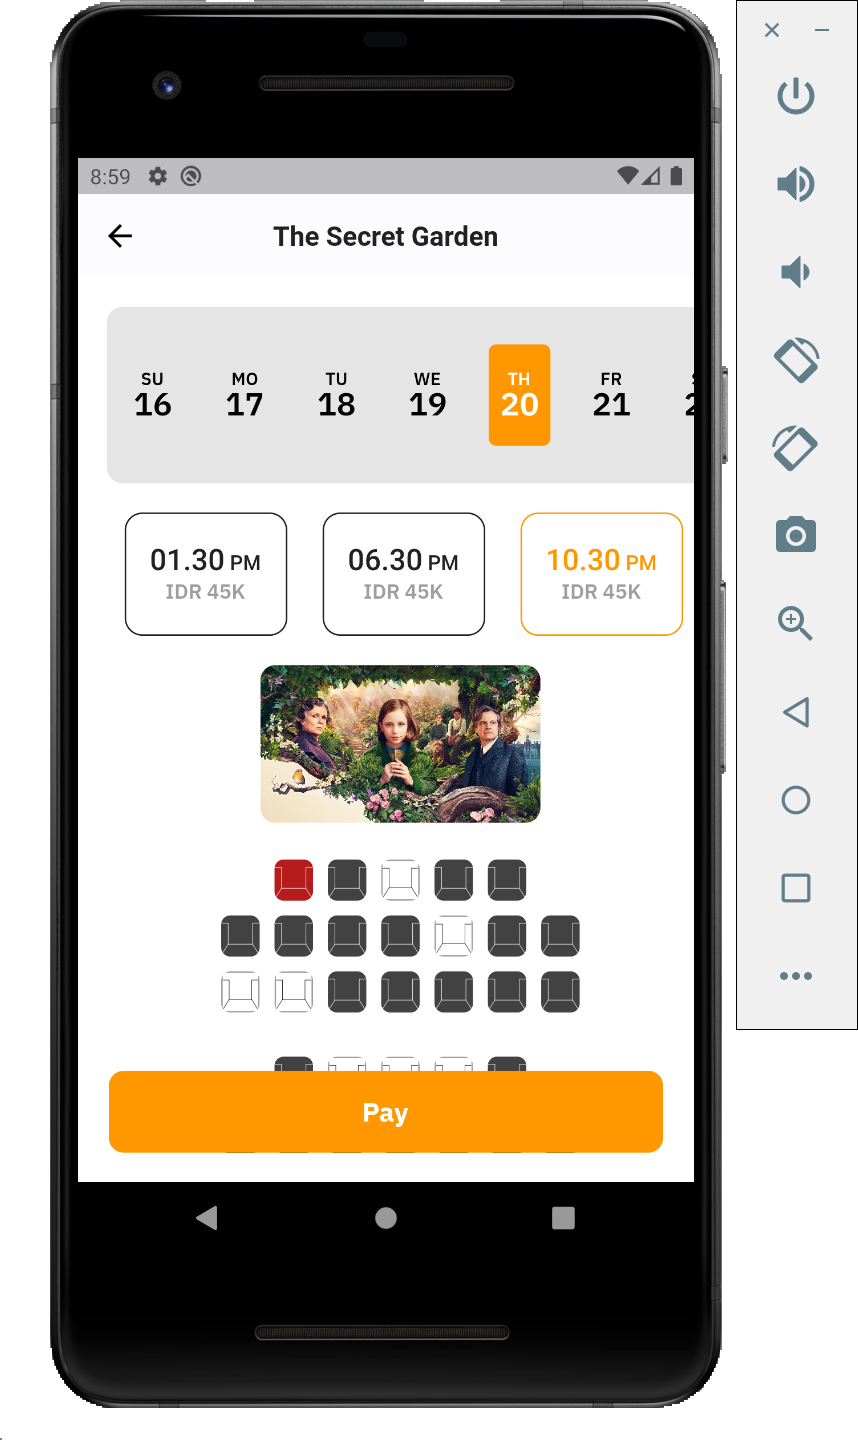
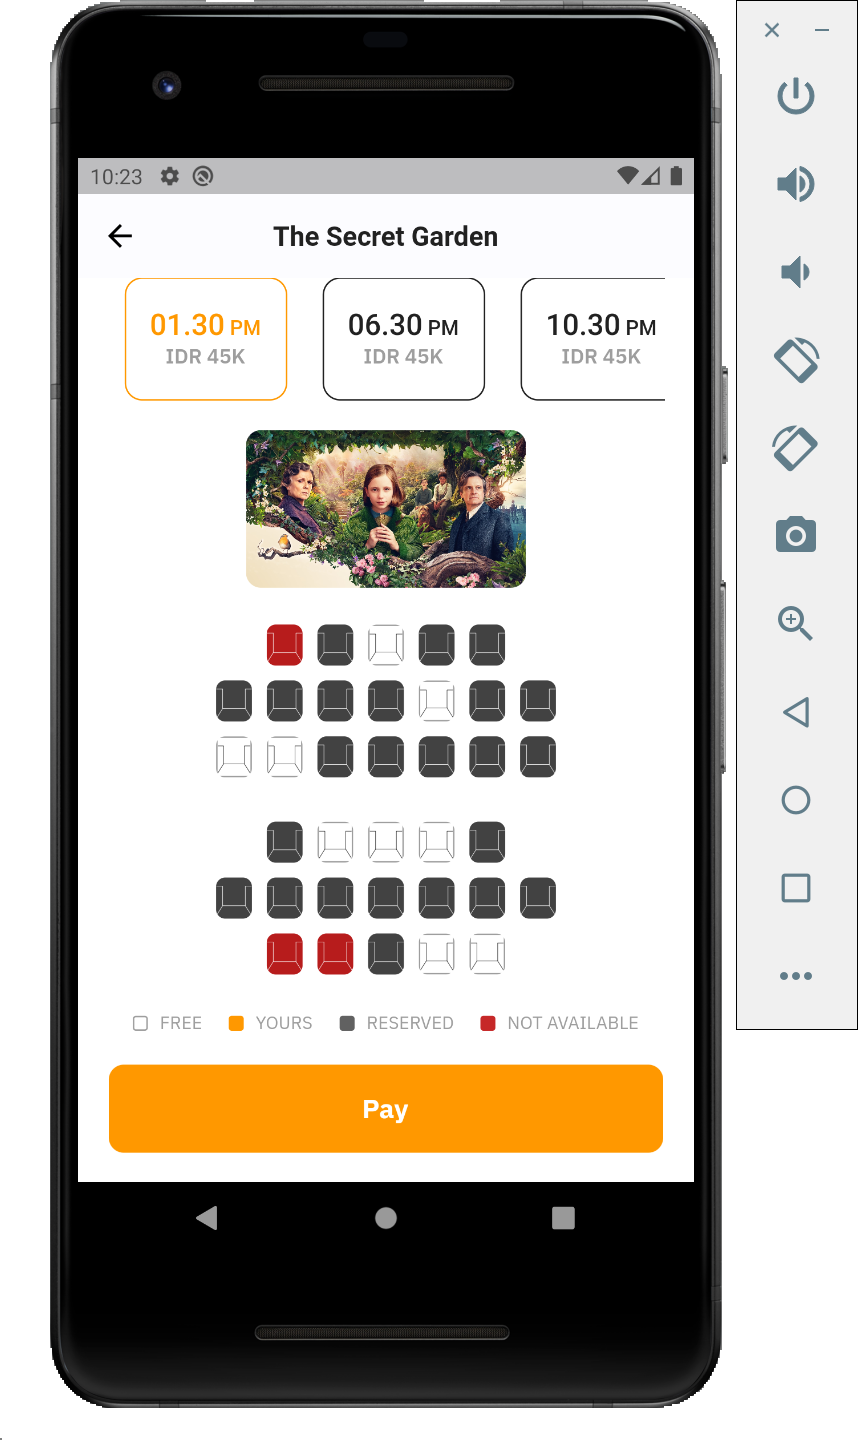
Add release v. 1.1.1

diff --git a/lib/ui/detail/detail_screen.dart b/lib/ui/detail/detail_screen.dart
@@ -26,109 +26,107 @@ class _DetailScreenState extends State<DetailScreen> {
     var theme = Theme.of(context);
     return Scaffold(
       key: scaffoldKey,
-      body: Stack(
-        children: [
-          SingleChildScrollView(
-            physics: ClampingScrollPhysics(),
-            child: Stack(
-              alignment: Alignment.center,
-              children: <Widget>[
-                Column(
-                  children: [
-                    CardMoviesHeader(
-                      title: args.movies.title == null
-                          ? args.movies.tvName
-                          : args.movies.title,
-                      imageBanner: args.movies.backdropPath.imageOriginal,
-                      imagePoster: args.movies.posterPath.imageOriginal,
-                      rating: args.movies.voteAverage,
-                      genre: args.movies.genreIds
-                          .take(3)
-                          .map(buildGenreChip)
-                          .toList(),
-                    ),
-                    Padding(
-                      padding: EdgeInsets.all(Sizes.dp20(context)),
-                      child: Column(
-                        crossAxisAlignment: CrossAxisAlignment.start,
-                        children: [
-                          Text(
-                            'Story line',
-                            style: TextStyle(
-                              fontWeight: FontWeight.w600,
-                              fontSize: Sizes.dp16(context),
-                            ),
-                          ),
-                          SizedBox(height: Sizes.dp8(context)),
-                          Text(
-                            args.movies.overview,
-                          ),
-                        ],
-                      ),
-                    ),
-                    Padding(
-                      padding: EdgeInsets.only(
-                        left: Sizes.dp20(context),
-                        right: Sizes.dp20(context),
-                      ),
-                      child: _buildYoutube(args.movies.id, args.isFromMovie),
-                    ),
-                    Padding(
-                      padding: EdgeInsets.only(
-                        left: Sizes.dp20(context),
-                        right: Sizes.dp20(context),
-                      ),
-                      child: _buildCrew(args.movies.id, args.isFromMovie),
-                    ),
-                    SizedBox(height: Sizes.width(context) / 4),
-                  ],
+      body: SingleChildScrollView(
+        physics: ClampingScrollPhysics(),
+        child: Stack(
+          alignment: Alignment.center,
+          children: <Widget>[
+            Column(
+              children: [
+                CardMoviesHeader(
+                  title: args.movies.title == null
+                      ? args.movies.tvName
+                      : args.movies.title,
+                  imageBanner: args.movies.backdropPath.imageOriginal,
+                  imagePoster: args.movies.posterPath.imageOriginal,
+                  rating: args.movies.voteAverage,
+                  genre: args.movies.genreIds
+                      .take(3)
+                      .map(buildGenreChip)
+                      .toList(),
                 ),
-                Positioned(
-                  top: Sizes.width(context) / 9,
-                  right: Sizes.dp5(context),
-                  child: IconButton(
-                    iconSize: Sizes.dp30(context),
-                    color: theme.accentColor,
-                    icon: Icon(Icons.favorite_border),
-                    onPressed: () {
-                      PopUp.showSnackBar(
-                        Text(
-                          "Add to Favorite",
-                          textAlign: TextAlign.center,
-                          style: TextStyle(
-                            fontSize: Sizes.dp16(context),
-                            color: ColorPalettes.white,
-                          ),
+                Padding(
+                  padding: EdgeInsets.all(Sizes.dp20(context)),
+                  child: Column(
+                    crossAxisAlignment: CrossAxisAlignment.start,
+                    children: [
+                      Text(
+                        'Story line',
+                        style: TextStyle(
+                          fontWeight: FontWeight.w600,
+                          fontSize: Sizes.dp16(context),
                         ),
-                        key: scaffoldKey,
-                      );
-                    },
+                      ),
+                      SizedBox(height: Sizes.dp8(context)),
+                      Text(
+                        args.movies.overview,
+                      ),
+                    ],
                   ),
                 ),
-                Positioned(
-                  top: Sizes.width(context) / 9,
-                  left: Sizes.dp5(context),
-                  child: IconButton(
-                    icon: Platform.isAndroid
-                        ? Icon(Icons.arrow_back)
-                        : Icon(Icons.arrow_back_ios),
-                    onPressed: () => Navigator.pop(context),
+                Padding(
+                  padding: EdgeInsets.only(
+                    left: Sizes.dp20(context),
+                    right: Sizes.dp20(context),
+                  ),
+                  child: _buildYoutube(args.movies.id, args.isFromMovie),
+                ),
+                Padding(
+                  padding: EdgeInsets.only(
+                    left: Sizes.dp20(context),
+                    right: Sizes.dp20(context),
+                  ),
+                  child: _buildCrew(args.movies.id, args.isFromMovie),
+                ),
+                Padding(
+                  padding: EdgeInsets.only(
+                    top: Sizes.dp20(context),
+                    bottom: Sizes.dp20(context),
+                  ),
+                  child: CustomButton(
+                    text: "Booking Ticket",
+                    onPressed: () {
+                      Navigation.intentWithData(context, BookingScreen.routeName,
+                          ScreenArguments(args.movies, true));
+                    },
                   ),
                 ),
               ],
             ),
-          ),
-          Align(
-            alignment: Alignment.bottomCenter,
-            child: CustomButton(
-              text: "Booking Ticket",
-              onPressed: () {
-                Navigation.intentWithData(context, BookingScreen.routeName,
-                    ScreenArguments(args.movies, true));
-              },
+            Positioned(
+              top: Sizes.width(context) / 9,
+              right: Sizes.dp5(context),
+              child: IconButton(
+                iconSize: Sizes.dp30(context),
+                color: theme.accentColor,
+                icon: Icon(Icons.favorite_border),
+                onPressed: () {
+                  PopUp.showSnackBar(
+                    Text(
+                      "Add to Favorite",
+                      textAlign: TextAlign.center,
+                      style: TextStyle(
+                        fontSize: Sizes.dp16(context),
+                        color: ColorPalettes.white,
+                      ),
+                    ),
+                    key: scaffoldKey,
+                  );
+                },
+              ),
             ),
-          ),
-        ],
+            Positioned(
+              top: Sizes.width(context) / 9,
+              left: Sizes.dp5(context),
+              child: IconButton(
+                icon: Platform.isAndroid
+                    ? Icon(Icons.arrow_back)
+                    : Icon(Icons.arrow_back_ios),
+                onPressed: () => Navigator.pop(context),
+              ),
+            ),
+          ],
+        ),
       ),
     );
   }

diff --git a/lib/ui/booking/booking_screen.dart b/lib/ui/booking/booking_screen.dart
@@ -89,42 +89,38 @@ class _BookingScreenState extends State<BookingScreen>
     _isDarkTheme = themeData.appBarTheme?.color == null;
     final ScreenArguments args = ModalRoute.of(context).settings.arguments;
     return Scaffold(
-      backgroundColor: !_isDarkTheme ? ColorPalettes.darkPrimary : ColorPalettes.white,
+      backgroundColor:
+          !_isDarkTheme ? ColorPalettes.darkPrimary : ColorPalettes.white,
       appBar: AppBar(
         elevation: 0,
         centerTitle: true,
         title: Text(args.movies.title),
       ),
-      body: Stack(
-        children: [
-          Container(
-            margin: EdgeInsets.only(top: Sizes.dp20(context), left: Sizes.dp20(context), bottom: Sizes.dp20(context)),
-            child: SingleChildScrollView(
-              child: Expanded(
-                child: Column(
-                  children: <Widget>[
-                    DateWidget(
-                      dateBackgroundAc: _dateBackgroundAc,
-                      dateBackgroundTween: _dateBackgroundTween,
-                      dateSelectorAcList: _dateSelectorAcList,
-                      dateSelectorTweenList: _dateSelectorTweenList,
-                    ),
-                    TimeWidget(
-                      timeSelectorAcList: _timeSelectorAcList,
-                      timeSelectorTweenList: _timeSelectorTweenList,
-                    ),
-                    CinemaWidget(movieBackground: args.movies.backdropPath),
-                    SizedBox(height: Sizes.width(context) / 5),
-                  ],
-                ),
+      body: SingleChildScrollView(
+        child: Padding(
+          padding: EdgeInsets.all(Sizes.dp20(context)),
+          child: Column(
+            children: <Widget>[
+              DateWidget(
+                dateBackgroundAc: _dateBackgroundAc,
+                dateBackgroundTween: _dateBackgroundTween,
+                dateSelectorAcList: _dateSelectorAcList,
+                dateSelectorTweenList: _dateSelectorTweenList,
               ),
-            ),
+              TimeWidget(
+                timeSelectorAcList: _timeSelectorAcList,
+                timeSelectorTweenList: _timeSelectorTweenList,
+              ),
+              CinemaWidget(movieBackground: args.movies.backdropPath),
+              Padding(
+                padding: EdgeInsets.only(
+                  top: Sizes.dp20(context),
+                ),
+                child: _payButton(),
+              ),
+            ],
           ),
-          Align(
-            alignment: Alignment.bottomCenter,
-            child: _payButton(),
-          ),
-        ],
+        ),
       ),
     );
   }
@@ -139,6 +135,7 @@ class _BookingScreenState extends State<BookingScreen>
           }
           return 1;
         }
+
         return Transform.translate(
           offset: Offset(0, _payButtonTween.value * 200),
           child: Opacity(opacity: opacity(), child: child),
@@ -154,7 +151,8 @@ class _BookingScreenState extends State<BookingScreen>
             content: "Thanks for your movie ticket order",
             title: "Payment Successful!",
             submit: () {
-              Navigation.intentWithClearAllRoutes(context, DashBoardScreen.routeName);
+              Navigation.intentWithClearAllRoutes(
+                  context, DashBoardScreen.routeName);
             },
           );
         },

diff --git a/shared/lib/src/widget/datetime/date_widget.dart b/shared/lib/src/widget/datetime/date_widget.dart
@@ -68,10 +68,7 @@ class _DateWidgetState extends State<DateWidget> {
             child: Container(
               decoration: BoxDecoration(
                 color: _backgroundColor(),
-                borderRadius: BorderRadius.only(
-                  topLeft: Radius.circular(Sizes.dp10(context)),
-                  bottomLeft: Radius.circular(Sizes.dp10(context)),
-                ),
+                borderRadius: BorderRadius.all(Radius.circular(Sizes.dp10(context))),
               ),
             ),
           ),

diff --git a/shared/lib/src/widget/button/custom_button.dart b/shared/lib/src/widget/button/custom_button.dart
@@ -12,8 +12,7 @@ class CustomButton extends StatelessWidget {
   Widget build(BuildContext context) {
     return Container(
       width: Sizes.width(context) * .9,
-      height: Sizes.height(context) * .08,
-      margin: EdgeInsets.only(bottom: Sizes.dp20(context)),
+      height: Sizes.width(context) / 7,
       child: FlatButton(
         color: ColorPalettes.darkAccent,
         shape: RoundedRectangleBorder(
